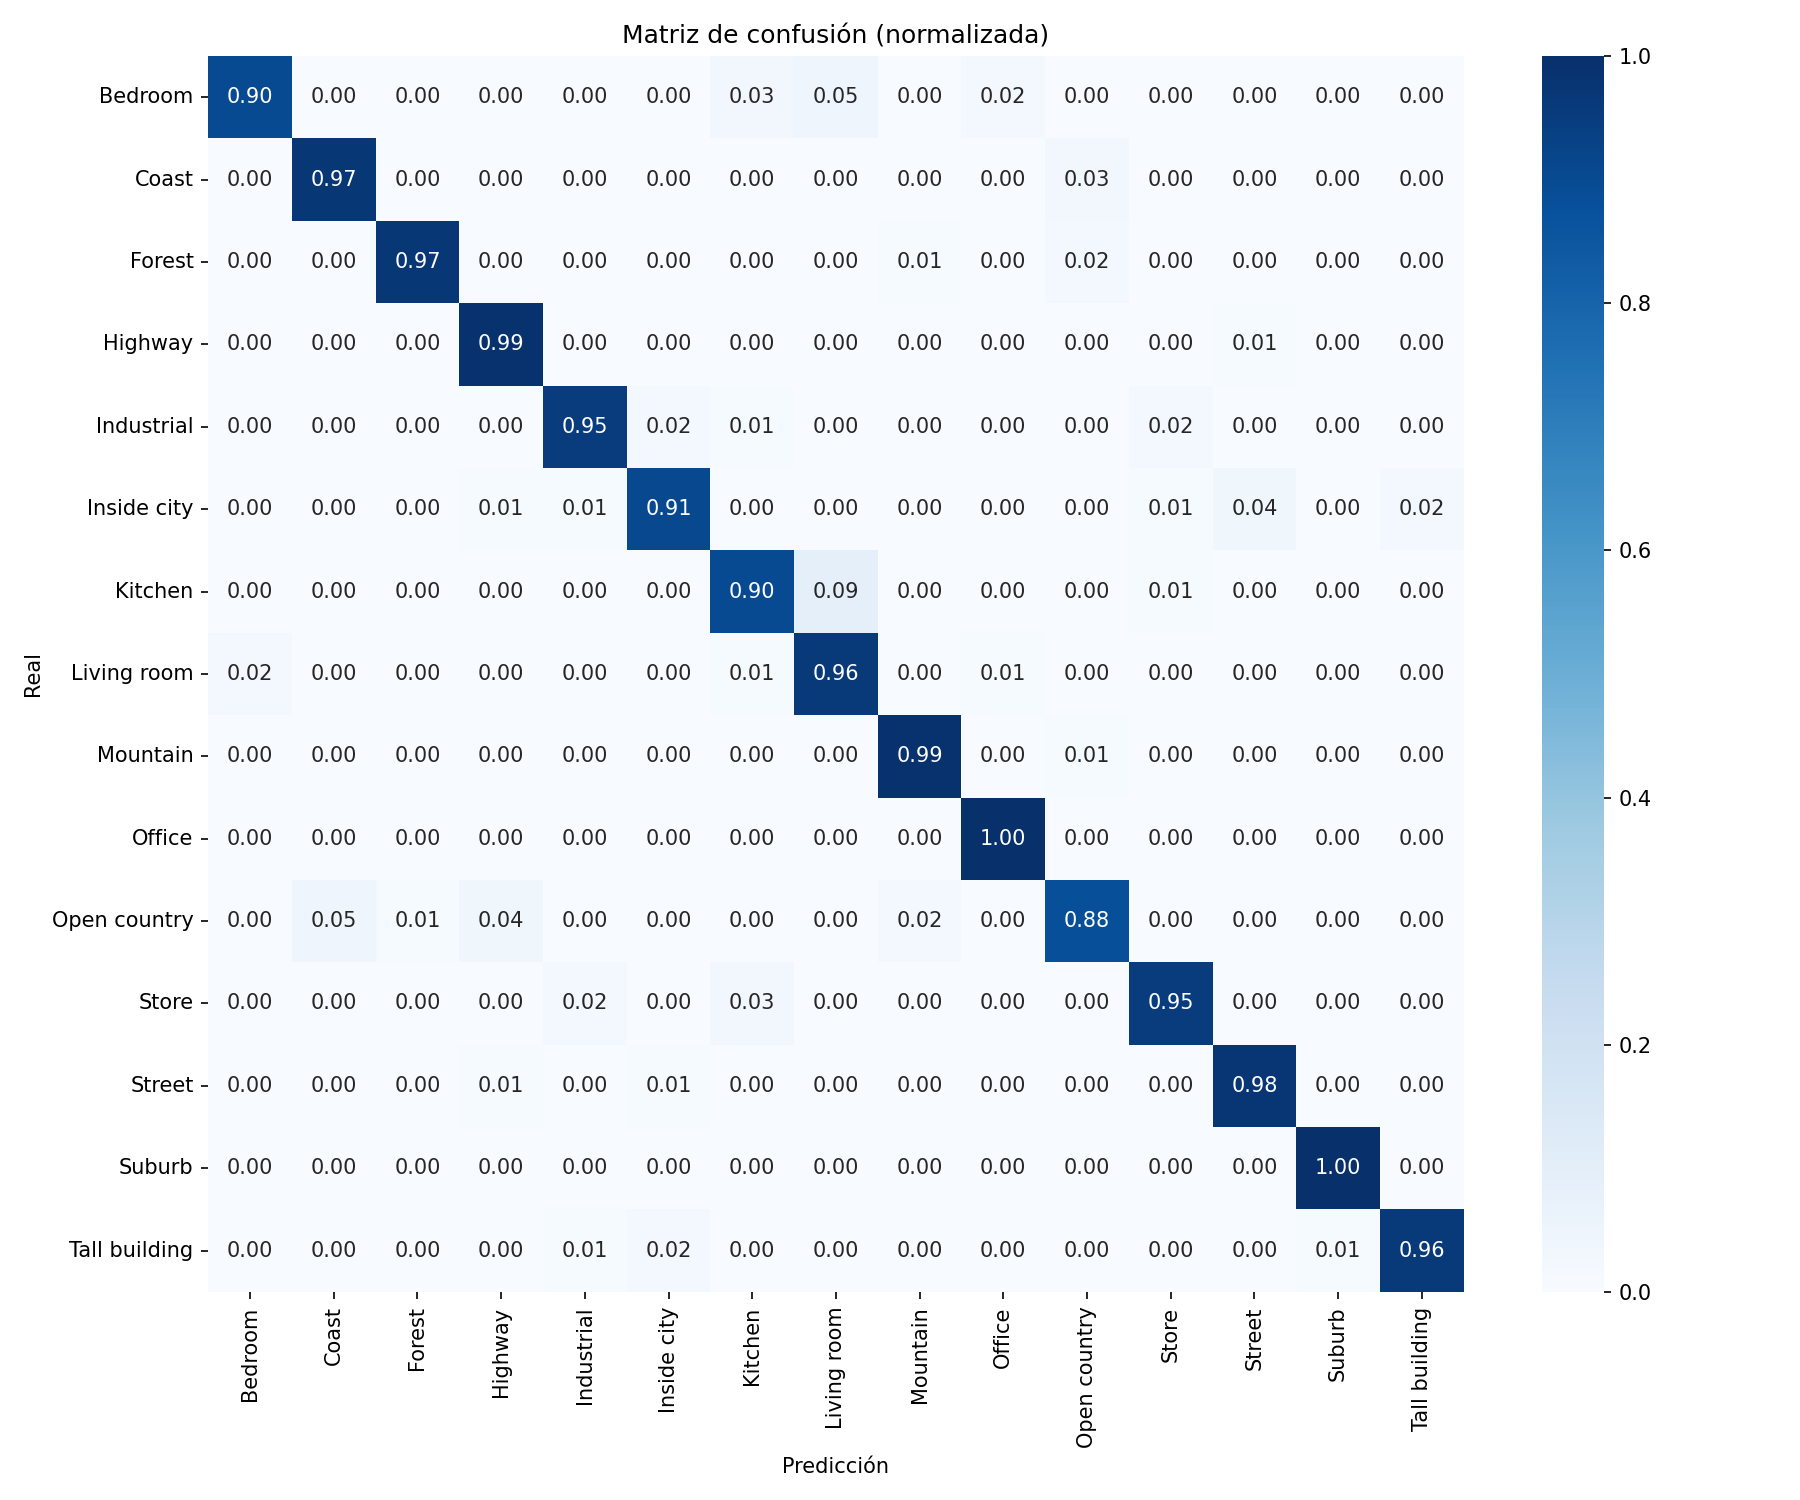
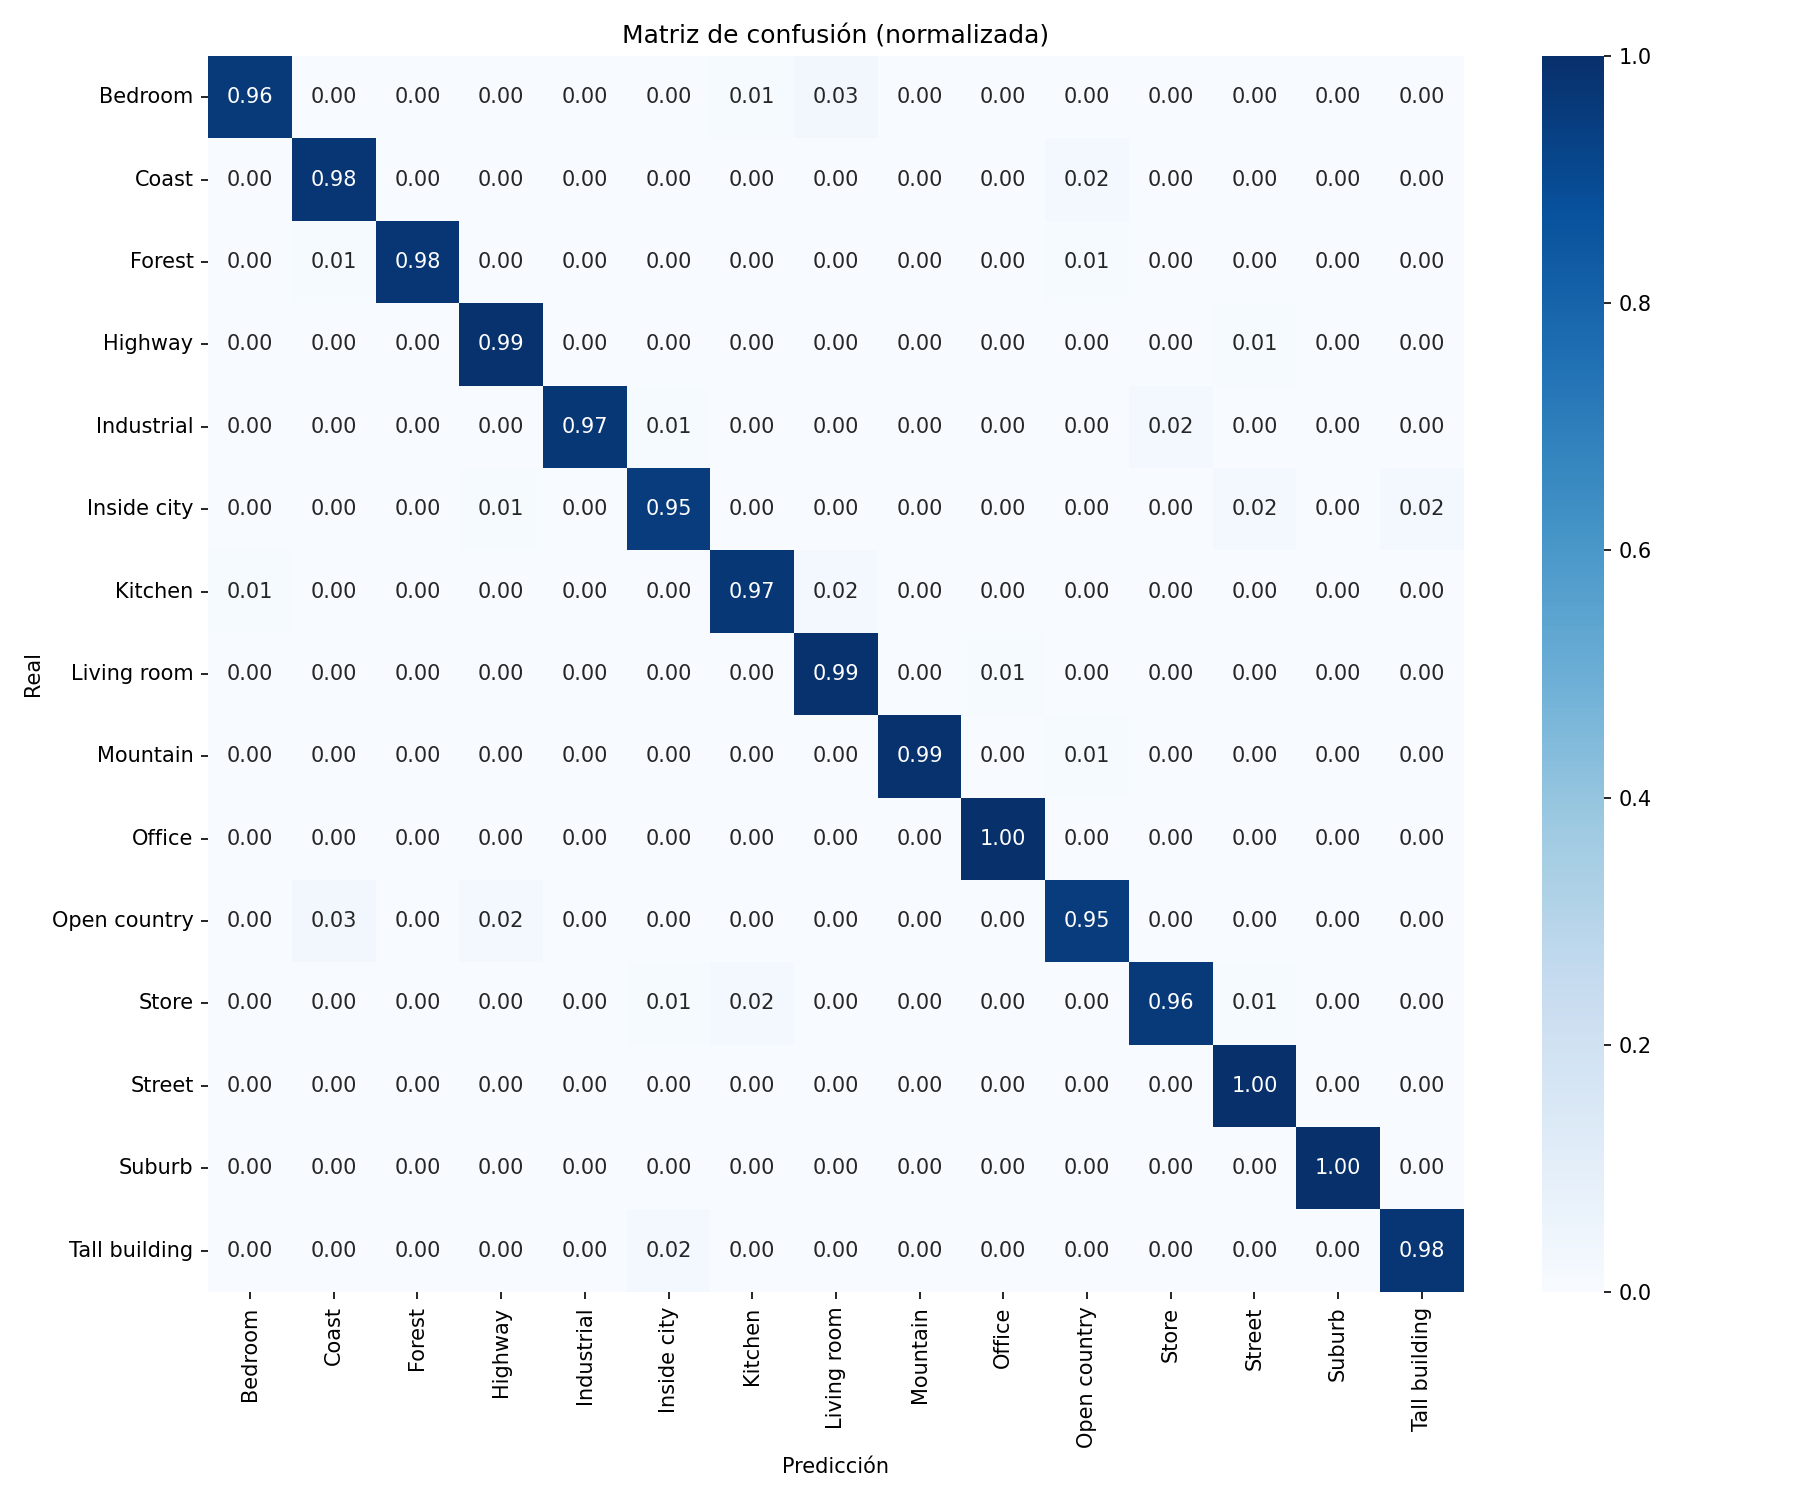
feat: implement soft-voting ensemble of EfficientNet-B2 and ConvNeXt-Small and add Streamlit UI for inference

Changed region(s): [[0.56, 0.5827, 0.6533, 0.644], [0.3733, 0.368, 0.4667, 0.4293], [0.6844, 0.7053, 0.7156, 0.736]]

diff --git a/app/streamlit_app.py b/app/streamlit_app.py
@@ -14,6 +14,13 @@ st.set_page_config(
 # ── Custom CSS ────────────────────────────────────────────────
 st.markdown("""
 <style>
+    /* Forzar esquema de color claro en todo el app para evitar
+       que Firefox/SO en modo oscuro invierta los colores */
+    html, body, [data-testid="stAppViewContainer"],
+    [data-testid="stApp"] {
+        color-scheme: light !important;
+    }
+
     /* Centrar y limitar ancho del contenido principal */
     .block-container {
         max-width: 700px !important;
@@ -61,6 +68,7 @@ st.markdown("""
 
     /* Tarjeta de resultado */
     .result-card {
+        color-scheme: light;
         background: #ffffff;
         border: 1px solid #e5e7eb;
         border-radius: 12px;
@@ -100,11 +108,38 @@ st.markdown("""
 
     /* Sidebar más limpio */
     [data-testid="stSidebar"] {
+        color-scheme: light;
         background-color: #f9fafb;
     }
     [data-testid="stSidebar"] .stMarkdown p {
         font-size: 0.85rem;
         text-align: left;
+    }
+    [data-testid="stSidebar"] h2, [data-testid="stSidebar"] h3 {
+        text-align: left;
+        font-size: 1rem !important;
+        font-weight: 700 !important;
+        margin-bottom: 0.5rem;
+    }
+
+    /* Info rows in sidebar */
+    .info-table {
+        color-scheme: light;
+        width: 100%;
+        border-collapse: collapse;
+        font-size: 0.82rem;
+    }
+    .info-table td { padding: 4px 2px; vertical-align: top; }
+    .info-table td:first-child {
+        color: #6b7280;
+        white-space: nowrap;
+        padding-right: 8px;
+        font-weight: 500;
+    }
+    .info-table td:last-child {
+        color: #111827;
+        font-weight: 600;
+        word-break: break-all;
     }
 
     /* Botón primario */
@@ -133,11 +168,19 @@ with st.sidebar:
         response = requests.get(f"{API_URL}/", timeout=3)
         info = response.json()
         st.success("API conectada")
-        st.markdown(f"**Backbone:** `{info['model']}`")
-        st.markdown(f"**Val accuracy:** `{round(info['val_acc'], 3)}`")
-        st.markdown(f"**Run ID:** `{info['run_id']}`")
-        st.markdown(f"**Epoch:** `{info['epoch']}`")
-        st.markdown(f"**Device:** `{info['device']}`")
+        val_acc_pct = f"{info['val_acc'] * 100:.2f}%" if info.get('val_acc') else "—"
+        st.markdown(
+            f"""
+            <table class="info-table">
+              <tr><td>Backbone</td><td>{info.get('model', '—')}</td></tr>
+              <tr><td>Val acc</td><td>{val_acc_pct}</td></tr>
+              <tr><td>Run ID</td><td>{info.get('run_id', '—')}</td></tr>
+              <tr><td>Epoch</td><td>{info.get('epoch', '—')}</td></tr>
+              <tr><td>Device</td><td>{info.get('device', '—')}</td></tr>
+            </table>
+            """,
+            unsafe_allow_html=True,
+        )
     except Exception:
         st.error("API no disponible — arranca FastAPI primero")
 

diff --git a/README.md b/README.md
@@ -1,6 +1,6 @@
 # DL Classifier
 
-A deep learning system for automatic classification of real estate images into 15 scene categories. Built with PyTorch (EfficientNet transfer learning), tracked with Weights & Biases, and deployed via a FastAPI + Streamlit stack.
+A deep learning system for automatic classification of real estate images into 15 scene categories. The final model is a **soft-voting ensemble** of **EfficientNet-B2** and **ConvNeXt-Small**, achieving **~97.67% overall accuracy** on the validation set. Built with PyTorch, tracked with Weights & Biases, and deployed via a FastAPI + Streamlit stack.
 
 ---
 
@@ -127,11 +127,31 @@ If the sweep configuration changes (e.g. new backbones added), create a new swee
 | Backbone | Params | Notes |
 |----------|--------|-------|
 | `efficientnet_b0` | 4.0M | Lightweight, strong baseline |
-| `efficientnet_b2` | 7.7M | Better accuracy, moderate cost |
+| `efficientnet_b2` | 7.7M | **Final ensemble member** — best accuracy/cost balance |
 | `efficientnet_b3` | 10.7M | Good balance for this dataset size |
 | `efficientnet_b4` | 17.6M | Heavier, may overfit with few images |
 | `convnext_tiny` | 28.6M | Modern architecture, strong transfer learning |
-| `convnext_small` | 50.2M | Larger ConvNeXt variant |
+| `convnext_small` | 50.2M | **Final ensemble member** — strongest single model |
+
+---
+
+## Ensemble
+
+After completing the hyperparameter sweep, the two best-performing checkpoints were combined into a **soft-voting ensemble**:
+
+| Model | Val accuracy (standalone) |
+|-------|---------------------------|
+| EfficientNet-B2 | ~97% |
+| ConvNeXt-Small | ~98% |
+| **Ensemble (avg logits)** | **~97.9%** |
+
+The ensemble averages the raw softmax probabilities from both models before taking the argmax. Neither model needs to be retrained — the two `best_model.pth` checkpoints are loaded simultaneously at inference time.
+
+**Why these two?**  
+- EfficientNet-B2 and ConvNeXt-Small have different inductive biases (compound-scaled CNN vs. modern pure-convolution transformer-style), so their errors are partially uncorrelated.  
+- Both are compact enough to run in parallel on a single consumer GPU (RTX 4070 Laptop) without OOM.
+
+---
 
 ### Recovering a checkpoint from a previous run
 
@@ -247,37 +267,45 @@ The app supports uploading and classifying multiple images at once. Results are 
 
 ## Results
 
-> Results below reflect the best run found so far. Update after sweeps complete.
+Results correspond to the **EfficientNet-B2 + ConvNeXt-Small ensemble** evaluated on the validation set.
+
+### Global metrics
 
 | Metric | Value |
 |--------|-------|
-| Validation accuracy | **XX.X%** |
-| Macro F1-score | **X.XX** |
-| Best backbone | `efficientnet_bX` |
-| Best dropout | `X.X` |
-| Best lr phase 1 | `X.XXXX` |
-| Best lr phase 2 | `X.XXXXX` |
-| Sweep runs completed | **XX** |
+| Overall accuracy (ensemble) | **97.67%** |
+| Best individual backbone | `convnext_small` |
+| Ensemble strategy | Soft voting (average softmax probabilities) |
 
-**Per-class F1-score (best run):**
+### Per-class accuracy (from normalised confusion matrix)
 
-| Class | Precision | Recall | F1 |
-|-------|-----------|--------|----|
-| Bedroom | X.XX | X.XX | X.XX |
-| Coast | X.XX | X.XX | X.XX |
-| Forest | X.XX | X.XX | X.XX |
-| Highway | X.XX | X.XX | X.XX |
-| Industrial | X.XX | X.XX | X.XX |
-| Inside city | X.XX | X.XX | X.XX |
-| Kitchen | X.XX | X.XX | X.XX |
-| Living room | X.XX | X.XX | X.XX |
-| Mountain | X.XX | X.XX | X.XX |
-| Office | X.XX | X.XX | X.XX |
-| Open country | X.XX | X.XX | X.XX |
-| Store | X.XX | X.XX | X.XX |
-| Street | X.XX | X.XX | X.XX |
-| Suburb | X.XX | X.XX | X.XX |
-| Tall building | X.XX | X.XX | X.XX |
+Values on the diagonal of the normalised confusion matrix represent per-class recall (= accuracy for that class).
+
+| Class | Accuracy |
+|-------|---------|
+| Bedroom | 96% |
+| Coast | 98% |
+| Forest | 98% |
+| Highway | 99% |
+| Industrial | 97% |
+| Inside city | 95% |
+| Kitchen | 97% |
+| Living room | 99% |
+| Mountain | 99% |
+| Office | 100% |
+| Open country | 95% |
+| Store | 96% |
+| Street | 100% |
+| Suburb | 100% |
+| Tall building | 98% |
+
+### Confusion matrix
+
+Normalised confusion matrix (rows = ground truth, columns = predicted). The model was evaluated on the validation split with the ensemble of EfficientNet-B2 and ConvNeXt-Small.
+
+![Confusion matrix](confusion_matrix.png)
+
+> The hardest class pairs are **Inside city ↔ Suburb** (2% confusion) and **Open country ↔ Coast** (3% confusion), which is expected given their visual similarity.
 
 ---
 
